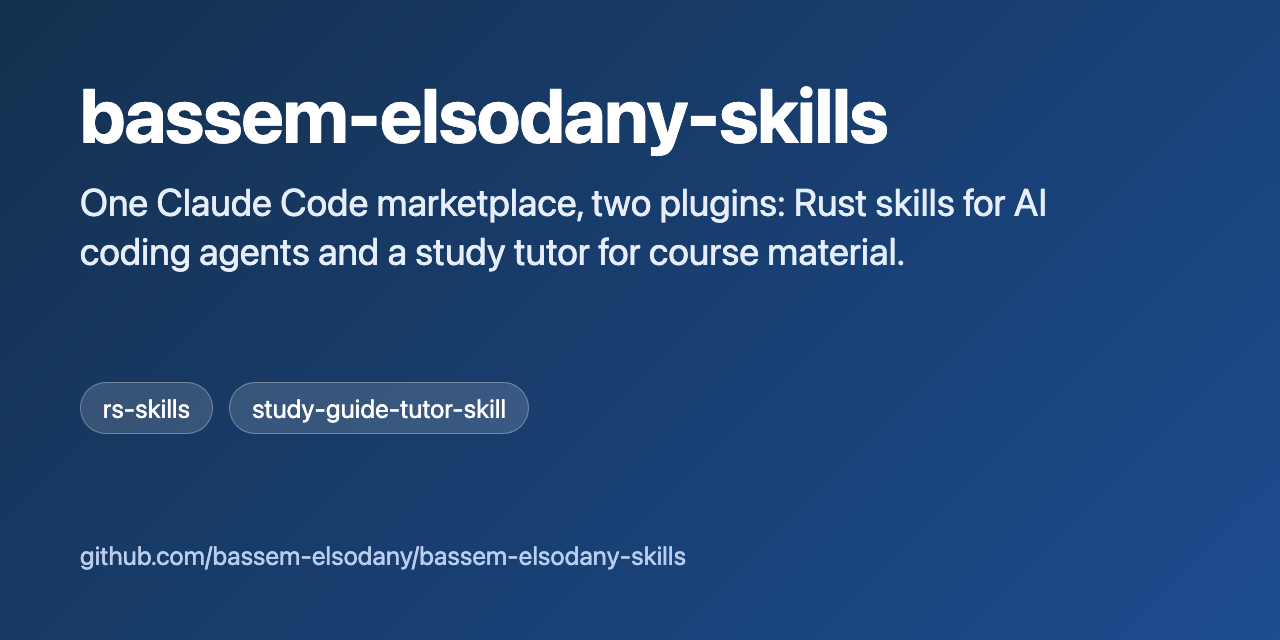
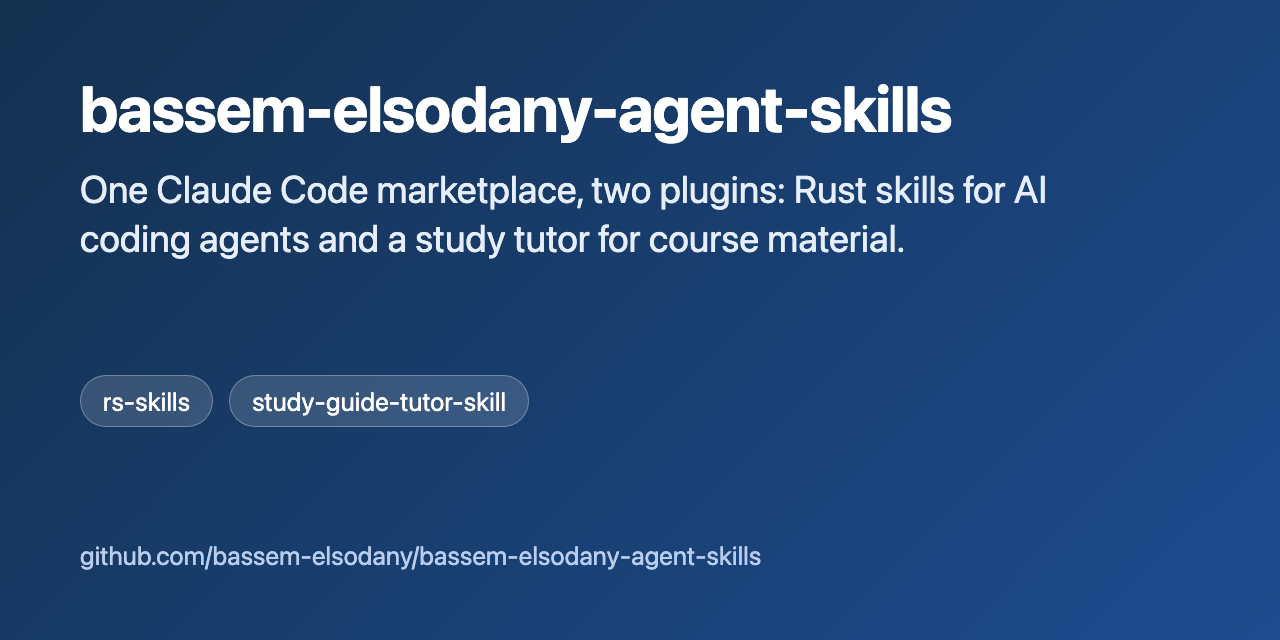
chore: rename the catalog to bassem-elsodany-agent-skills

Changed region(s): [[0.0625, 0.125, 0.8125, 0.4375], [0.0625, 0.5625, 0.4062, 0.6875], [0.5, 0.8438, 0.5938, 0.9062]]

diff --git a/README.md b/README.md
@@ -1,4 +1,4 @@
-# bassem-elsodany-skills
+# bassem-elsodany-agent-skills
 
 **One marketplace, two Claude Code plugins: Rust skills for AI coding agents, and a study tutor that turns course material into lessons, audited quizzes and an interactive player. Add the catalog once, then pick what to install.**
 
@@ -13,14 +13,14 @@ This repository is only a **catalog**: it holds a `marketplace.json` that tells 
 **1. Add the catalog once** (in Claude Code):
 
 ```
-/plugin marketplace add bassem-elsodany/bassem-elsodany-skills
+/plugin marketplace add bassem-elsodany/bassem-elsodany-agent-skills
 ```
 
 **2. Install what you want.** Run `/plugin` to browse the catalog and pick, or install by name:
 
 ```
-/plugin install rs-skills@bassem-elsodany-skills
-/plugin install study-guide-tutor-skill@bassem-elsodany-skills
+/plugin install rs-skills@bassem-elsodany-agent-skills
+/plugin install study-guide-tutor-skill@bassem-elsodany-agent-skills
 ```
 
 **3. Reload and check:** `/reload-plugins` (or start a new session), then `/plugin` → *Installed*.
@@ -29,15 +29,15 @@ This repository is only a **catalog**: it holds a `marketplace.json` that tells 
 
 | Plugin | Install | What it does | Repository |
 |---|---|---|---|
-| **rs-skills** | `/plugin install rs-skills@bassem-elsodany-skills` | Rust skills for AI coding agents: an entry router, SDK-first and ports-and-adapters gates, threat-model security review, fuzzing, release checks, cleanup and git discipline (62 skills, 400+ rules) | [bassem-elsodany/rs-skills](https://github.com/bassem-elsodany/rs-skills) |
-| **study-guide-tutor-skill** | `/plugin install study-guide-tutor-skill@bassem-elsodany-skills` | Turns slides, notes and PDFs into a source-checked tutoring course: learner intake, fact ledger, lessons with tricky-part hints, audited quizzes, spaced flashcards, a timed exam and an interactive study player | [bassem-elsodany/study-guide-tutor-skill](https://github.com/bassem-elsodany/study-guide-tutor-skill) |
+| **rs-skills** | `/plugin install rs-skills@bassem-elsodany-agent-skills` | Rust skills for AI coding agents: an entry router, SDK-first and ports-and-adapters gates, threat-model security review, fuzzing, release checks, cleanup and git discipline (62 skills, 400+ rules) | [bassem-elsodany/rs-skills](https://github.com/bassem-elsodany/rs-skills) |
+| **study-guide-tutor-skill** | `/plugin install study-guide-tutor-skill@bassem-elsodany-agent-skills` | Turns slides, notes and PDFs into a source-checked tutoring course: learner intake, fact ledger, lessons with tricky-part hints, audited quizzes, spaced flashcards, a timed exam and an interactive study player | [bassem-elsodany/study-guide-tutor-skill](https://github.com/bassem-elsodany/study-guide-tutor-skill) |
 
 Each plugin's README has its own requirements, configuration and limits. Read it before installing.
 
 ## Keeping up to date
 
 ```
-/plugin marketplace update bassem-elsodany-skills
+/plugin marketplace update bassem-elsodany-agent-skills
 ```
 
 pulls the latest catalog. A plugin's own version changes when its repository publishes a new release; see its releases page.
